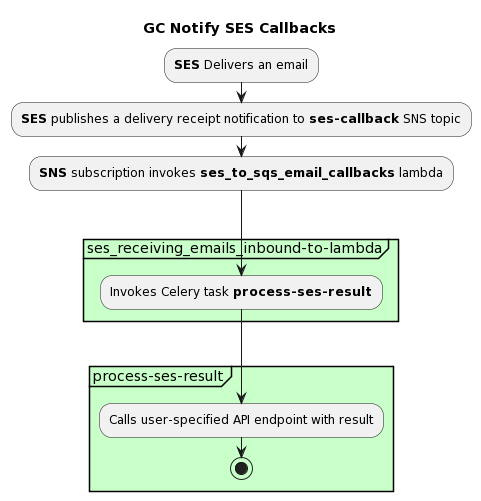
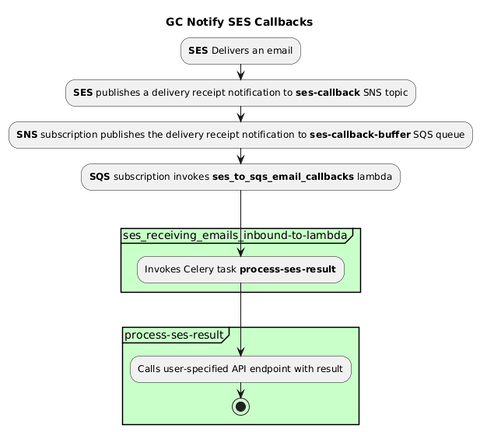
Refactor ses_to_sqs_email_callbacks to batch process receipts (#96)
* Refactor ses_to_sqs_email_callbacks to batch process receipts

- Added dev requirements files
- Added unit test

* Update the lambda to handle batched receipts from the new SQS queue

* Fix parsing of message body when receiving from SQS instead of the SNS topic

* Add boundary tests

* Add some debug logging for testing in staging

* Rename log identifier

Changed region(s): [[0.0, 0.0301, 1.0, 0.9931]]

diff --git a/sesemailcallbacks/ses_to_sqs_email_callbacks.py b/sesemailcallbacks/ses_to_sqs_email_callbacks.py
@@ -1,3 +1,4 @@
+import os
 import base64
 import json
 import boto3
@@ -12,32 +13,45 @@ def lambda_handler(event, context):
     queue = sqs.get_queue_by_name(
         QueueName='eks-notification-canada-cadelivery-receipts'
     )
-    print("Queue {}".format(queue))
-    print("Task has begun")
-    for record in event["Records"]:
-        task = {
-            "task": "process-ses-result",
-            "id": str(uuid.uuid4()),
-            "args": [
-                {
-                    "Message": record["Sns"]["Message"]
-                }
-            ],
-            "kwargs": {},
-            "retries": 0,
-            "eta": None,
-            "expires": None,
-            "utc": True,
-            "callbacks": None,
-            "errbacks": None,
-            "timelimit": [
-                None,
-                None
-            ],
-            "taskset": None,
-            "chord": None
+
+    records = event.get("Records", [])
+
+    if not records:
+        print("No SES receipt records found in the SQS event message.")
+        return {
+            "statusCode": 200
         }
-        envelope = {
+    print(f"[batch-lambda] - records: {records}")
+    print(f"[batch-lambda] - Raw receipt bodies: {[receipt["body"] for receipt in records]}")
+    print(f"[batch-lambda] - Json receipt bodies: {[json.loads(receipt["body"]) for receipt in records]}")
+    receipt_messages = [json.loads(receipt["body"]) for receipt in records]
+
+
+    print(f"Task has begun, batch processing {len(records)} receipts.")
+
+    task = {
+        "task": "process-ses-result",
+        "id": str(uuid.uuid4()),
+        "args": [
+            {
+                "Messages": receipt_messages
+            }
+        ],
+        "kwargs": {},
+        "retries": 0,
+        "eta": None,
+        "expires": None,
+        "utc": True,
+        "callbacks": None,
+        "errbacks": None,
+        "timelimit": [
+            None,
+            None
+        ],
+        "taskset": None,
+        "chord": None
+    }
+    envelope = {
             "body": base64.b64encode(bytes(json.dumps(task), 'utf-8')).decode("utf-8"),
             "content-encoding": "utf-8",
             "content-type": "application/json",
@@ -54,12 +68,13 @@ def lambda_handler(event, context):
                 "body_encoding": "base64",
                 "delivery_tag": str(uuid.uuid4())
             }
-        }
-        msg = base64.b64encode(bytes(json.dumps(envelope), 'utf-8')).decode("utf-8")
-        queue.send_message(MessageBody=msg)
-        print("Record has moved to call process-ses-result")
-    print("Task has ended")
+    }
+    msg = json.dumps(envelope)
+    print(f"[batch-lambda] - Message to queue: {msg}")
+    queue.send_message(MessageBody=msg)
+    print(f"{len(receipt_messages)} records have moved to call process-ses-result")
 
+    print("Task has ended")
 
     return {
         'statusCode': 200

diff --git a/sesemailcallbacks/test_ses_to_sqs_email_callbacks.py b/sesemailcallbacks/test_ses_to_sqs_email_callbacks.py
@@ -1,0 +1,75 @@
+import os
+import json
+import base64
+import uuid
+import boto3
+import pytest
+from moto import mock_sqs
+from ses_to_sqs_email_callbacks import lambda_handler  # Import your Lambda function
+
+
+def sns_event(num_records=10):
+    """Generate a mock SQS event message with the specified number of records."""
+
+    record = {
+        "messageId": str(uuid.uuid4()),
+        "Timestamp" : "2025-04-15T15:55:22.211Z",
+        "body": json.dumps({"Type" : "Notification","MessageId": "uuid", "Message": {"notificationType": "Delivery", "mail": {"timestamp":"2025-04-15T15:55:21.620Z","messageId":"010d01963a298494-470d5161-a44d-4a3e-9582-e0fa18a886fc-000000"},"delivery":{"timestamp":"2025-04-15T15:55:22.176Z"}}})
+    }
+    messages = {
+        "Records": [record for _ in range(num_records)] if num_records > 0 else []
+    }
+
+    return messages
+
+
+def test_lambda_handles_no_records():
+
+    os.environ["AWS_DEFAULT_REGION"] = "us-east-1"
+
+    # Use mock_sqs as a context manager
+    with mock_sqs() as sqs:
+        event = sns_event(0)
+        # Create the queue before calling lambda
+        sqs = boto3.resource("sqs", region_name="us-east-1")
+        queue = sqs.create_queue(QueueName="eks-notification-canada-cadelivery-receipts")
+
+        # Call lambda handler
+        response = lambda_handler(event, sqs)
+
+        # Ensure Lambda executed successfully
+        assert response["statusCode"] == 200
+
+        # Check that no messages were sent to SQS
+        messages = queue.receive_messages()
+        assert len(messages) == 0
+
+
+@pytest.mark.parametrize("num_records", [1, 5, 10, 11])
+def test_lambda_batches_correctly(num_records):
+    os.environ["AWS_DEFAULT_REGION"] = "us-east-1"
+
+    # Use mock_sqs as a context manager
+    with mock_sqs() as sqs:
+        event = sns_event(num_records)
+        # Create the queue before calling lambda
+        sqs = boto3.resource("sqs", region_name="us-east-1")
+        queue = sqs.create_queue(QueueName="eks-notification-canada-cadelivery-receipts")
+
+        # Call lambda handler
+        response = lambda_handler(event, sqs)
+
+        # Ensure Lambda executed successfully
+        assert response["statusCode"] == 200
+
+        # Retrieve messages from the queue
+        messages = queue.receive_messages()
+
+        # Verify message structure
+        for msg in messages:
+            body_content = json.loads(msg.body)
+            assert "body" in body_content
+            decoded_body = json.loads(base64.b64decode(body_content["body"]))
+            assert "args" in decoded_body
+            assert len(json.loads(base64.b64decode(body_content["body"]))["args"][0]["Messages"]) == num_records
+

diff --git a/sesemailcallbacks/README.md b/sesemailcallbacks/README.md
@@ -6,8 +6,9 @@ This lambda gets the email receipt from AWS and then calls a task to update the 
 
 1. Email gets sent through Notify
 2. The email receipt gets published to an SNS topic `ses-callback`
-3. The ses_to_sqs_email_callbacks lambda has a receiver on the above SNS topic
-4. The lambda takes the email receipt and sends it to a celery queue `eks-notification-canada-cadelivery-receipts` with a task `process-ses-result`
+3. The SQS queue `ses-callback-buffer` is subscribed to and receives messages from the above SNS topic
+4. The ses_to_sqs_email_callbacks lambda has a receiver on the above SQS queue
+5. The lambda takes the email receipts in batches of 10 and sends them to a celery queue `eks-notification-canada-cadelivery-receipts` with a task `process-ses-result`
 
 ## How it works
 ![PlantUML model](./ses-callback.png)
@@ -19,6 +20,26 @@ title GC Notify SES Callbacks
 :**SES** Delivers an email;
 :**SES** publishes a delivery receipt notification to **ses-callback** SNS topic;
 :**SNS** subscription invokes **ses_to_sqs_email_callbacks** lambda;
+-> \n\n;
+partition #Technology "ses_receiving_emails_inbound-to-lambda" {
+  :Invokes Celery task **process-ses-result**;
+}
+-> \n;
+partition #Technology "process-ses-result" {
+  :Calls user-specified API endpoint with result;
+  stop
+}
+@enduml
+-->
+
+<!--
+@startuml
+
+title GC Notify SES Callbacks
+:**SES** Delivers an email;
+:**SES** publishes a delivery receipt notification to **ses-callback** SNS topic;
+:**SNS** publishes the delivery receipt notification to **ses-callback-buffer** SQS queue;
+:**SQS** subscription invokes **ses_to_sqs_email_callbacks** lambda;
 -> \n\n;
 partition #Technology "ses_receiving_emails_inbound-to-lambda" {
   :Invokes Celery task **process-ses-result**;
